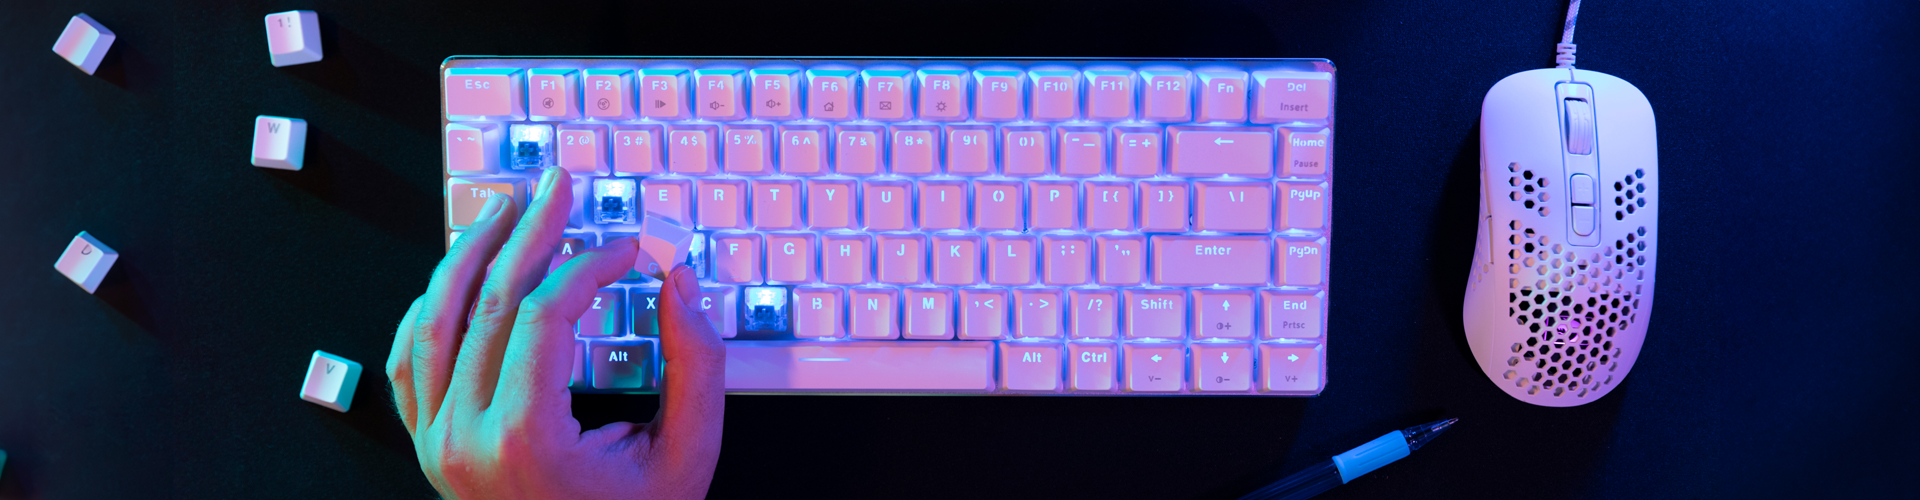
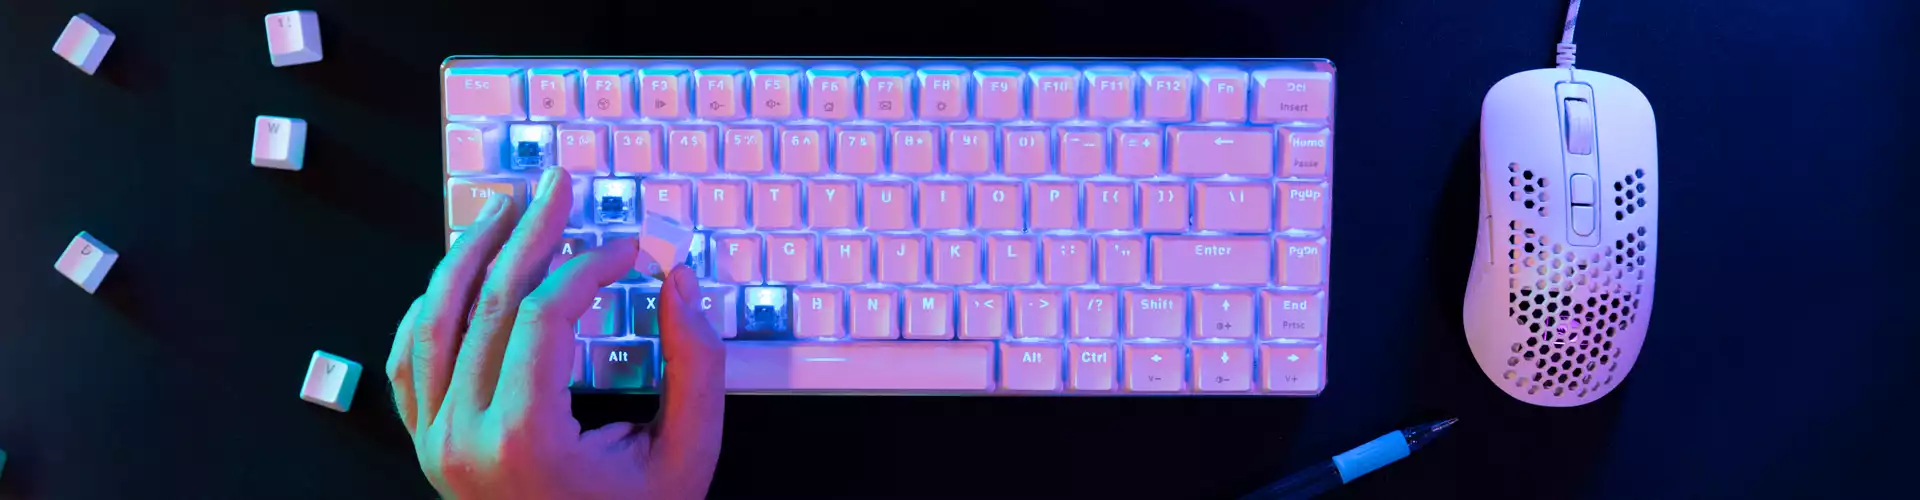
changes images

diff --git a/project/index.html b/project/index.html
@@ -11,7 +11,7 @@
     <meta property="og:type" content="website" />
     <meta property="og:url" content="" />
     <meta property="og:image" content="" />
-    <link rel="icon" href="images/ezk-logo.png">
+    <link rel="icon" href="images/ezk-logo.webp">
     <link rel="preconnect" href="https://fonts.googleapis.com">
     <link rel="preconnect" href="https://fonts.gstatic.com" crossorigin>
     <link
@@ -23,7 +23,7 @@
 
 <body>
     <header>
-        <img src="images/ezk-logo.png" alt="Logo Ezk Pc Store" class="ezkLogo" width="150">
+        <img src="images/ezk-logo.webp" alt="Logo Ezk Pc Store" class="ezkLogo" width="150">
         <h1>EZK PC STORE</h1>
         <button id="menuButton" aria-label="Menu"></button>
 
@@ -53,10 +53,10 @@
         <div class="featuredProducts">
             <h2>FEATURED PRODUCTS</h2>
             <div class="featuredContainer">
-                <img src="images/graphic-card.webp" alt="graphic-card" width="180">
-                <img src="images/motherboards.webp" alt="motherboards" width="180">
-                <img src="images/processors.webp" alt="processors" width="180">
-                <img src="images/monitors.webp" alt="monitors" width="180">
+                <img src="images/graphic-card.webp" alt="graphic-card" width="180" loading="lazy">
+                <img src="images/motherboards.webp" alt="motherboards" width="180" loading="lazy">
+                <img src="images/processors.webp" alt="processors" width="180" loading="lazy">
+                <img src="images/monitors.webp" alt="monitors" width="180" loading="lazy">
             </div>
             <a href="products.html" class="viewMoreButton">View More products</a>
         </div>
@@ -64,7 +64,7 @@
         <div class="benefits">
             <h2>How would it benefit you<br>to sell our products?</h2>
             <div id="benefit1">
-                <img src="images/dolar.png" alt="ico dolar" width="40">
+                <img src="images/dolar.webp" alt="ico dolar" width="40">
                 <h2>Exclusive Wholesale Pricing</h2>
                 <p>Gain access to special discounts on all our products, ensuring competitive profit margins for your
                     business. Secure the best brands in gaming and design components at preferential prices.</p>
@@ -72,7 +72,7 @@
             </div>
 
             <div id="benefit2">
-                <img src="images/support.png" alt="ico dolar" width="40">
+                <img src="images/support.webp" alt="ico dolar" width="40">
                 <h2>Priority Support</h2>
                 <p>Enjoy dedicated technical and commercial assistance. Our team of experts is available to help you
                     maximize your sales and optimize your catalog with high-demand products.</p>
@@ -80,7 +80,7 @@
             </div>
 
             <div id="benefit3">
-                <img src="images/new.png" alt="ico dolar" width="40">
+                <img src="images/new.webp" alt="ico dolar" width="40">
                 <h2>Early Access to New Releases</h2>
                 <p>Be among the first to receive the latest tech innovations. As a distributor, you’ll get early access
                     to new products, helping you stay ahead of the market.</p>
@@ -96,9 +96,9 @@
         <p>Tech District, New York, NY 10001, USA</p>
         <p>+1 (123) 456-7890</p>
         <div>
-            <img src="images/instagram.png" alt="instagram logo" width="20">
-            <img src="images/tik-tok.png" alt="tik tok logo" width="20">
-            <img src="images/twitter.png" alt="twitter logo" width="20">
+            <img src="images/instagram.webp" alt="instagram logo" width="20">
+            <img src="images/tik-tok.webp" alt="tik tok logo" width="20">
+            <img src="images/twitter.webp" alt="twitter logo" width="20">
         </div>
         <p id="footer"></p>
     </footer>

diff --git a/project/products.html b/project/products.html
@@ -11,7 +11,7 @@
     <meta property="og:type" content="website" />
     <meta property="og:url" content="" />
     <meta property="og:image" content="" />
-    <link rel="icon" href="images/ezk-logo.png">
+    <link rel="icon" href="images/ezk-logo.webp">
     <link rel="preconnect" href="https://fonts.googleapis.com">
     <link rel="preconnect" href="https://fonts.gstatic.com" crossorigin>
     <link
@@ -24,7 +24,7 @@
 
 <body>
     <header>
-        <img src="images/ezk-logo.png" alt="Logo Ezk Pc Store" class="ezkLogo" width="150">
+        <img src="images/ezk-logo.webp" alt="Logo Ezk Pc Store" class="ezkLogo" width="150">
         <h1>EZK PC STORE</h1>
         <button id="menuButton" aria-label="Menu"></button>
 
@@ -45,12 +45,12 @@
         <div class="categoriesProducts">
             <h2>Categories</h2>
             <div id="categories" class="category">
-                <img id="category1" src="images/motherboards.webp" alt="motherboards">
-                <img id="category2" src="images/graphic-card.webp" alt="graphic-card">
-                <img id="category3" src="images/processors.webp" alt="processors">
-                <img id="category4" src="images/memory.webp" alt="memory">
-                <img id="category5" src="images/monitors.webp" alt="monitors">
-                <img id="category6" src="images/cases.webp" alt="cases">
+                <img id="category1" src="images/motherboards.webp" alt="motherboards" loading="lazy">
+                <img id="category2" src="images/graphic-card.webp" alt="graphic-card" loading="lazy">
+                <img id="category3" src="images/processors.webp" alt="processors" loading="lazy">
+                <img id="category4" src="images/memory.webp" alt="memory" loading="lazy">
+                <img id="category5" src="images/monitors.webp" alt="monitors" loading="lazy">
+                <img id="category6" src="images/cases.webp" alt="cases" loading="lazy">
             </div>
 
             <h2 id="product-title" class="hidden">Products</h2>
@@ -101,9 +101,9 @@
         <p>Tech District, New York, NY 10001, USA</p>
         <p>+1 (123) 456-7890</p>
         <div>
-            <img src="images/instagram.png" alt="instagram logo" width="20">
-            <img src="images/tik-tok.png" alt="tik tok logo" width="20">
-            <img src="images/twitter.png" alt="twitter logo" width="20">
+            <img src="images/instagram.webp" alt="instagram logo" width="20">
+            <img src="images/tik-tok.webp" alt="tik tok logo" width="20">
+            <img src="images/twitter.webp" alt="twitter logo" width="20">
         </div>
         <p id="footer"></p>
     </footer>

diff --git a/project/distributors.html b/project/distributors.html
@@ -11,7 +11,7 @@
     <meta property="og:type" content="website" />
     <meta property="og:url" content="" />
     <meta property="og:image" content="" />
-    <link rel="icon" href="images/ezk-logo.png">
+    <link rel="icon" href="images/ezk-logo.webp">
     <link rel="preconnect" href="https://fonts.googleapis.com">
     <link rel="preconnect" href="https://fonts.gstatic.com" crossorigin>
     <link
@@ -23,7 +23,7 @@
 
 <body>
     <header>
-        <img src="images/ezk-logo.png" alt="Logo Ezk Pc Store" class="ezkLogo" width="150">
+        <img src="images/ezk-logo.webp" alt="Logo Ezk Pc Store" class="ezkLogo" width="150">
         <h1>EZK PC STORE</h1>
         <button id="menuButton" aria-label="Menu"></button>
 
@@ -129,9 +129,9 @@
         <p>Tech District, New York, NY 10001, USA</p>
         <p>+1 (123) 456-7890</p>
         <div>
-            <img src="images/instagram.png" alt="instagram logo" width="20">
-            <img src="images/tik-tok.png" alt="tik tok logo" width="20">
-            <img src="images/twitter.png" alt="twitter logo" width="20">
+            <img src="images/instagram.webp" alt="instagram logo" width="20">
+            <img src="images/tik-tok.webp" alt="tik tok logo" width="20">
+            <img src="images/twitter.webp" alt="twitter logo" width="20">
         </div>
         <p id="footer"></p>
     </footer>

diff --git a/project/thankyou.html b/project/thankyou.html
@@ -11,7 +11,7 @@
     <meta property="og:type" content="website" />
     <meta property="og:url" content="" />
     <meta property="og:image" content="" />
-    <link rel="icon" href="images/ezk-logo.png">
+    <link rel="icon" href="images/ezk-logo.webp">
     <link rel="preconnect" href="https://fonts.googleapis.com">
     <link rel="preconnect" href="https://fonts.gstatic.com" crossorigin>
     <link
@@ -23,7 +23,7 @@
 
 <body>
     <header>
-        <img src="images/ezk-logo.png" alt="Logo Ezk Pc Store" class="ezkLogo" width="150">
+        <img src="images/ezk-logo.webp" alt="Logo Ezk Pc Store" class="ezkLogo" width="150">
         <h1>EZK PC STORE</h1>
         <button id="menuButton" aria-label="Menu"></button>
 
@@ -45,9 +45,9 @@
         <p>Tech District, New York, NY 10001, USA</p>
         <p>+1 (123) 456-7890</p>
         <div>
-            <img src="images/instagram.png" alt="instagram logo" width="20">
-            <img src="images/tik-tok.png" alt="tik tok logo" width="20">
-            <img src="images/twitter.png" alt="twitter logo" width="20">
+            <img src="images/instagram.webp" alt="instagram logo" width="20">
+            <img src="images/tik-tok.webp" alt="tik tok logo" width="20">
+            <img src="images/twitter.webp" alt="twitter logo" width="20">
         </div>
         <p id="footer"></p>
     </footer>

diff --git a/project/site-plan.html b/project/site-plan.html
@@ -35,7 +35,7 @@
 
         <h2>Branding</h2>
         <h3>Website Logo</h3>
-        <img src="images/ezk-logo.png" alt=" Site Logo" width="200">
+        <img src="images/ezk-logo.webp" alt=" Site Logo" width="200">
 
         <h2>Style Guide</h2>
         <h3>Color Palette</h3>
@@ -56,12 +56,12 @@
         <h2>Wireframes</h2>
         <div>
             <h3>Desktop View</h3>
-            <img src="images/wireframe-desktop.png" alt="wireframe desktop" width="700">
+            <img src="images/wireframe-desktop.webp" alt="wireframe desktop" width="700">
         </div>
         <div class="mobile-view">
             <h3>Mobile View</h3>
-            <img src="images/wireframe-mobile1.png" alt="" width="300" class="wireframe-mobile1">
-            <img src="images/wireframe-mobile2.png" alt="" width="300" class="wireframe-mobile2">
+            <img src="images/wireframe-mobile1.webp" alt="" width="300" class="wireframe-mobile1">
+            <img src="images/wireframe-mobile2.webp" alt="" width="300" class="wireframe-mobile2">
         </div>
     </main>
     <footer>

diff --git a/project/scripts/products.js b/project/scripts/products.js
@@ -194,7 +194,7 @@ document.addEventListener('DOMContentLoaded', () => {
             const productDiv = document.createElement('div');
             productDiv.classList.add('product');
             productDiv.innerHTML = `
-                <img src="${product.img}" alt="${product.name}" data-title="${product.name}" data-description="${product.description ||'Description not available'}" class="product-img-modal">
+                <img src="${product.img}" alt="${product.name}" data-title="${product.name}" data-description="${product.description ||'Description not available'}" class="product-img-modal" loading="lazy">
                 <p>${product.name}</p>
                 <p>${product.price}</p>
             `;

diff --git a/project/scripts/distributors.js b/project/scripts/distributors.js
@@ -27,8 +27,7 @@ document.addEventListener('DOMContentLoaded', () => {
         localStorage.setItem('visitCount', 1);
         localStorage.setItem('lastVisitTime', new Date().getTime());
         const welcomeMessage = document.getElementById('welcomeMessage');
-        welcomeMessage.innerHTML = `Welcome!<br>Complete the form so we can contact you.<br>Let us know if you have any questions.`;
-
+        welcomeMessage.innerHTML = `Welcome! Complete the form so we can contact you.<br>Let us know if you have any questions.`;
     } else {
         const currentTime = new Date().getTime();
         const timeDifference = currentTime - lastVisitTime;

diff --git a/project/styles/distributors.css b/project/styles/distributors.css
@@ -2,20 +2,24 @@
 
 .main-content {
     width: 100%;
-    display: flex;
-    flex-direction: column;
+    display: grid;
     justify-content: center;
     align-items: center;
     padding: 30px 20px 50px 20px;
-    row-gap: 30px;
+    row-gap: 10px;
     background-color: var(--secondary-color);
 }
 
-.main-content h1 {
-    font-size: 25px;
-    font-weight: 600;
+.message {
+    display: grid;
+    grid-template-columns: 1fr;
     text-align: center;
-    color: var(--primary-color);
+}
+
+.message p {
+    font-size: 20px;
+    font-weight: 600;
+    margin-bottom: 10px;
 }
 
 picture img, picture source {
